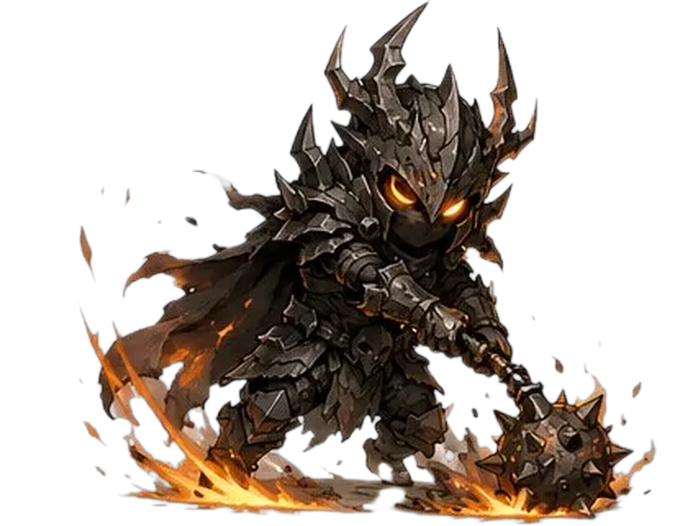
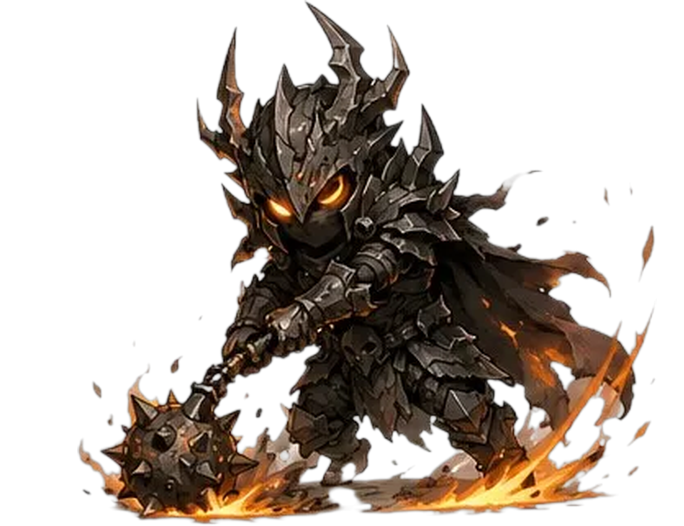
몬스터 공격 포즈 19장 좌우 반전(주인공 파티를 바라보게), 성 밖 사냥터에서도 동료 2명 동행
Claude-Session: https://claude.ai/code/session_013foBeASNo8fQFmm9TxP3pv

diff --git a/balance.js b/balance.js
@@ -82,12 +82,11 @@
     JOB_SKILL: { tankerMult: 1.6, tankerGuard: 1, healerMult: 1.3, healerHealPct: 0.04, healerUltHealPct: 0.2 },
 
     // ── 동료 슬롯 ───────────────────────────────────
-    // 던전 종류별로 함께 싸우는 동료 수: 성 밖 0명(혼자), 일반·지역 던전(광산·항구·엘프숲·수도 등) 2명, 심연 3명.
+    // 던전 종류별로 함께 싸우는 동료 수: 심연 3명, 그 밖(성 밖 사냥터·일반·지역 던전)은 2명.
     // 전투 계산(공격 가세·반격 피해·궁극기)과 전투 화면이 모두 이 값을 따른다.
+    // (v2.7 에서 성 밖을 0명으로 했더니 처음 동료를 초대해도 전투 화면에 주인공만 보여서 2명으로 되돌렸다)
     partySlots(dungeonType) {
-      if (dungeonType === "outside") return 0;
-      if (dungeonType === "abyss") return 3;
-      return 2;
+      return dungeonType === "abyss" ? 3 : 2;
     },
 
     // ── 동료 궁극기 ─────────────────────────────────

diff --git a/town-scene.js b/town-scene.js
@@ -1482,7 +1482,7 @@ class TownScene {
     };
 
     const SLOTS = [
-      { num:1, key:p.party,  title:"1번째 동료",  sub:"성 밖 제외 모든 던전 동행" },
+      { num:1, key:p.party,  title:"1번째 동료",  sub:"모든 던전 동행" },
       { num:2, key:p.party2, title:"2번째 동료",  sub:"일반·지역·심연 던전 동행" },
       { num:3, key:p.party3, title:"3번째 동료",  sub:"심연 던전 전용" },
     ];

diff --git a/tools/prep-poses.py b/tools/prep-poses.py
@@ -11,7 +11,7 @@ import sys
 from collections import deque
 from pathlib import Path
 import numpy as np
-from PIL import Image, ImageFilter
+from PIL import Image, ImageFilter, ImageOps
 
 ROOT = Path(__file__).resolve().parent.parent
 # (출력 이름, 원본 파일, 기본 그림, 잘라낼 영역(없으면 전체))
@@ -78,6 +78,13 @@ JOBS = [
     ("wyvern_atk2",  "15.webp", "sd_wyvern.png",  (345, 700, 665, 940)),
     ("wyvern_atk3",  "15.webp", "sd_wyvern.png",  (575, 960, 895, 1215)),
 ]
+# 몬스터는 화면 오른쪽에서 왼쪽(주인공 파티)을 바라본다. 원본 그림이 오른쪽을 향한 포즈는 좌우를 뒤집는다.
+FLIP = {
+    "slime_atk1", "slime_atk2", "golem_atk1", "guardian_atk2",
+    "demonknight_atk1", "demonknight_atk2", "demonknight_atk3",
+    "bat_atk1", "bat_atk2", "bat_atk3", "mummy_atk1", "mummy_atk2", "mummy_atk3",
+    "vampire_atk1", "vampire_atk2", "vampire_atk3", "wyvern_atk1", "wyvern_atk3", "dragon_atk4",
+}
 LIGHT = 236   # 이 값 이상이면 '흰 배경'으로 본다
 
 
@@ -186,7 +193,9 @@ def main():
         opts = opt[0] if opt else {}
         im = Image.open(src / f).convert("RGBA")
         if rect: im = im.crop(rect)
-        res = fit_on_base(cut_background(im, **opts), (ROOT / "images" / base) if base else None)
+        cut = cut_background(im, **opts)
+        if name in FLIP: cut = ImageOps.mirror(cut)
+        res = fit_on_base(cut, (ROOT / "images" / base) if base else None)
         res.save(out_dir / f"{name}.png", optimize=True)
         print(name, res.size)
 

diff --git a/README.md b/README.md
@@ -222,8 +222,12 @@ node tools/fullkit-sim.js --compare   # 직업 × 장비 가정 비교
   축복 +8/16/24%, 궁극기 회복 20%로 조정. 일반 3층 Lv15 클리어율 43% → 약 83%
 - 동료 슬롯 구역 차이 문제는 v2.7에서 해결
 
+### v2.10 — 몬스터 방향 · 성 밖 동료
+- 몬스터는 화면 오른쪽에서 왼쪽(주인공 파티)을 바라본다. 오른쪽을 향해 그려진 포즈 19장(슬라임·골렘·수호자·악마 기사·박쥐·미라·뱀파이어·와이번·드래곤 공격)을 좌우 반전 (`tools/prep-poses.py`의 `FLIP`)
+- 성 밖 사냥터에서도 동료 2명이 함께 싸운다(v2.7에서 0명으로 했더니 처음 동료를 초대해도 전투 화면에 주인공만 보였다). 3번째 동료는 계속 심연 전용
+
 ### v2.7 — 동료 슬롯 정리
-- 동료 수 규칙을 `Balance.partySlots(던전 종류)` 한 곳으로 통일: 성 밖 0명 · 일반/광산/항구/엘프숲/수도 2명 · 심연 3명.
+- 동료 수 규칙을 `Balance.partySlots(던전 종류)` 한 곳으로 통일: 성 밖 0명 · 일반/광산/항구/엘프숲/수도 2명 · 심연 3명 (성 밖은 v2.10에서 2명으로 변경).
   이전에는 광산·항구·엘프숲·수도에서 2번 동료를 고르게 해 놓고 공격엔 가세하지 않은 채 반격 피해만 받았고, 성 밖에서도 2·3번 동료가 피해를 받았다
 - 전투 화면(동료 스프라이트·HUD·궁극기 버튼)과 궁극기 사용도 같은 규칙을 따른다. 성 밖에서는 동료 궁극기 버튼이 숨겨진다
 - 마을 동료 관리 화면의 안내 문구를 실제 규칙에 맞게 수정
